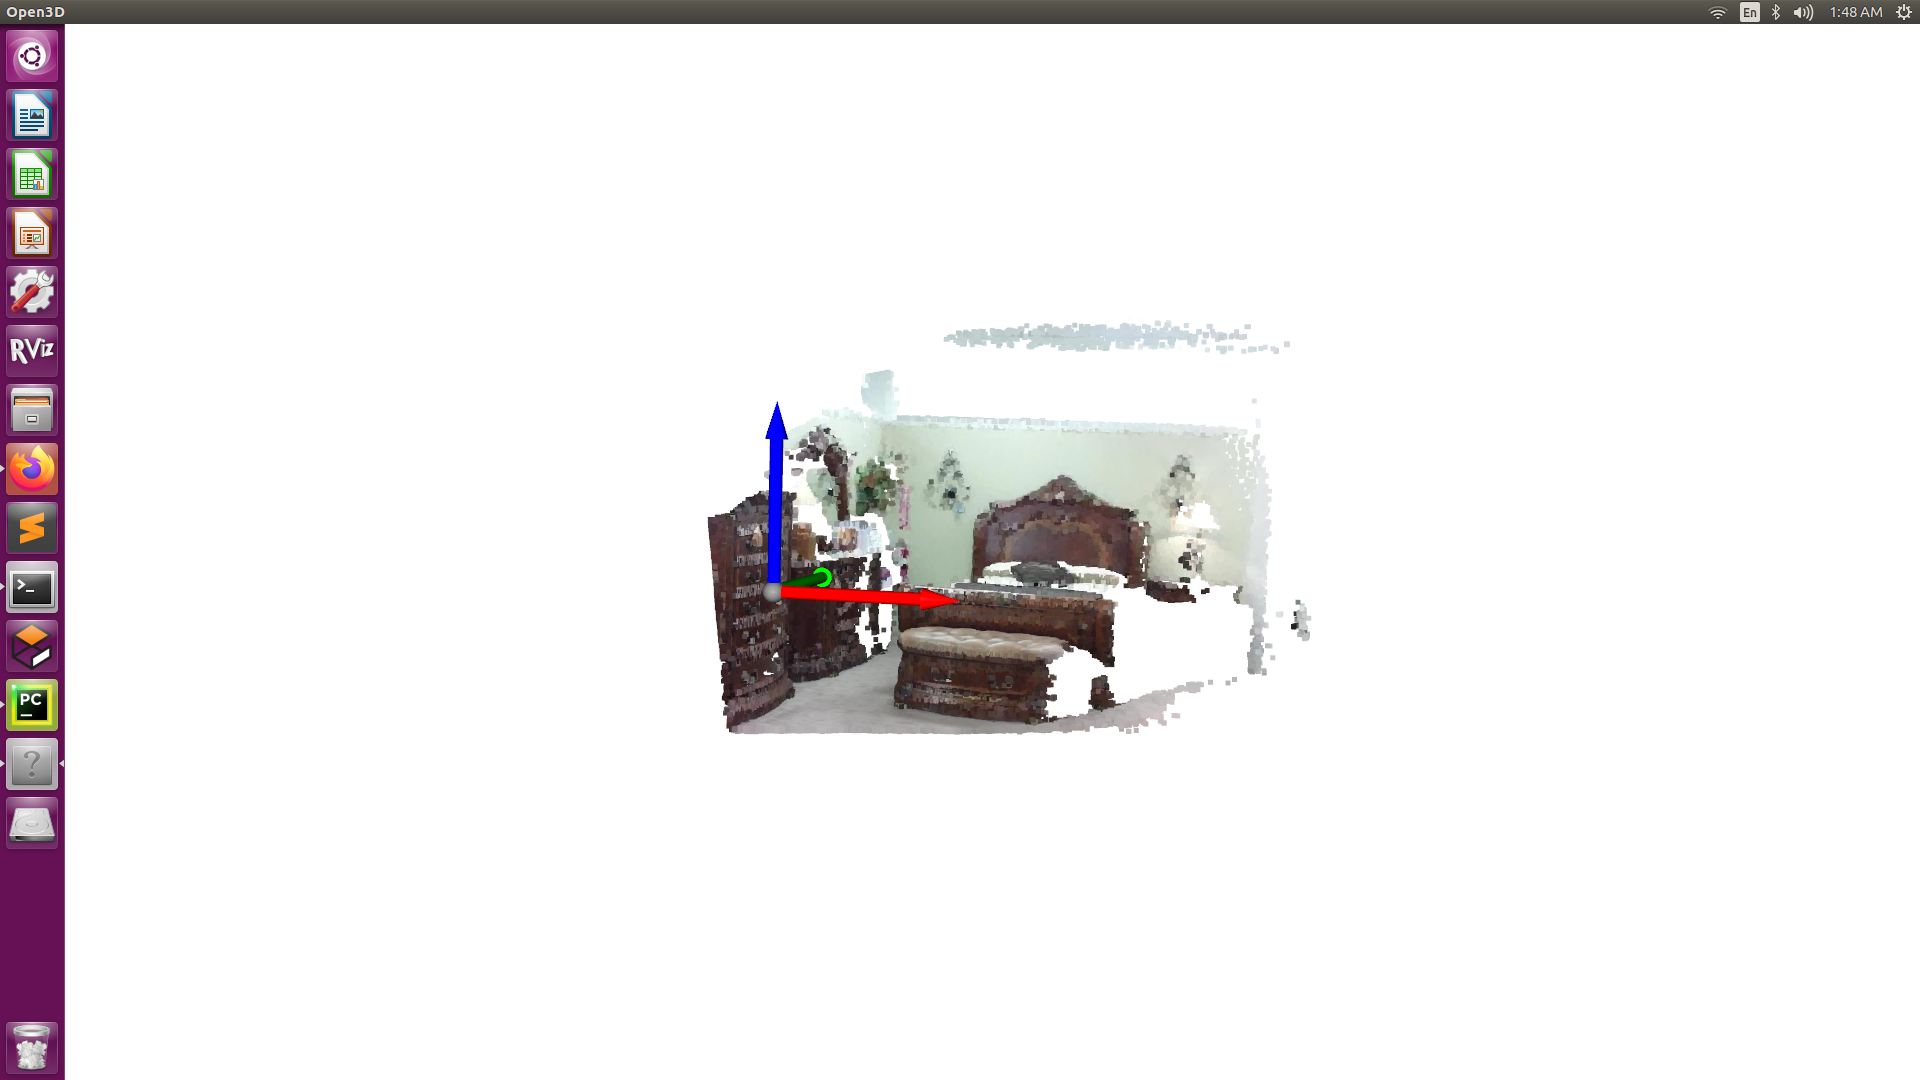
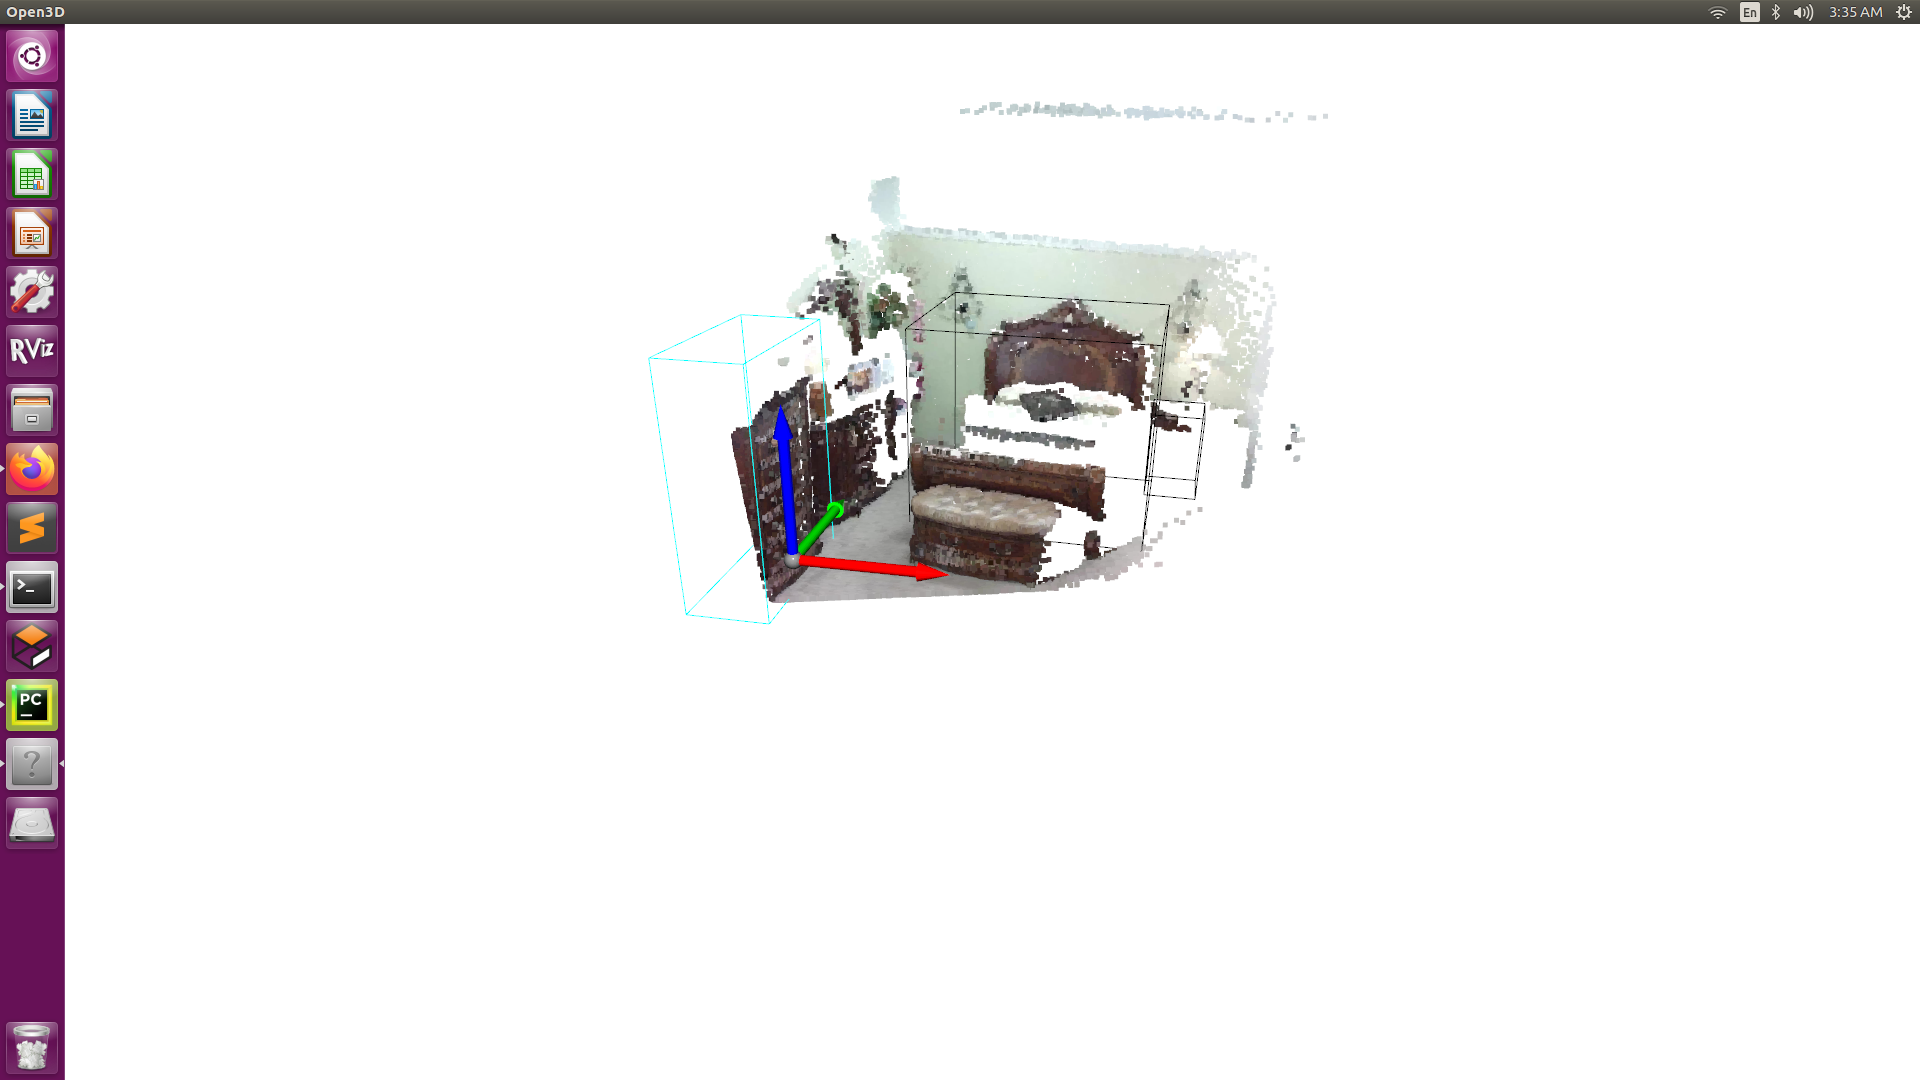
viz gt 3dbbox w/ rot sunrgbd

Changed region(s): [[0.3438, 0.1528, 0.6875, 0.7028], [0.5, 0.0917, 0.6562, 0.1222]]

diff --git a/README.md b/README.md
@@ -23,9 +23,9 @@ Or you can also download a pre-built whl from [here](https://gist.github.com/dis
 ![rgb](sample-image/image.jpg)
 ### world coordinate point cloud and bounding boxes
 ![world coordinate point cloud](sample-image/pcd.png)
-### sunrgbd 2d bbox, left: dataset label, right: CNN detector label
+### sunrgbd 2d bbox, left: dataset label, right: RCNN detector label
 ![](sample-image/sunrgbd-2dbbox.jpg)
-### sunrgbd point cloud
+### sunrgbd point cloud and 3d bbox
 ![](sample-image/sunrgbd-pcd.png)
 
 ## TODO
